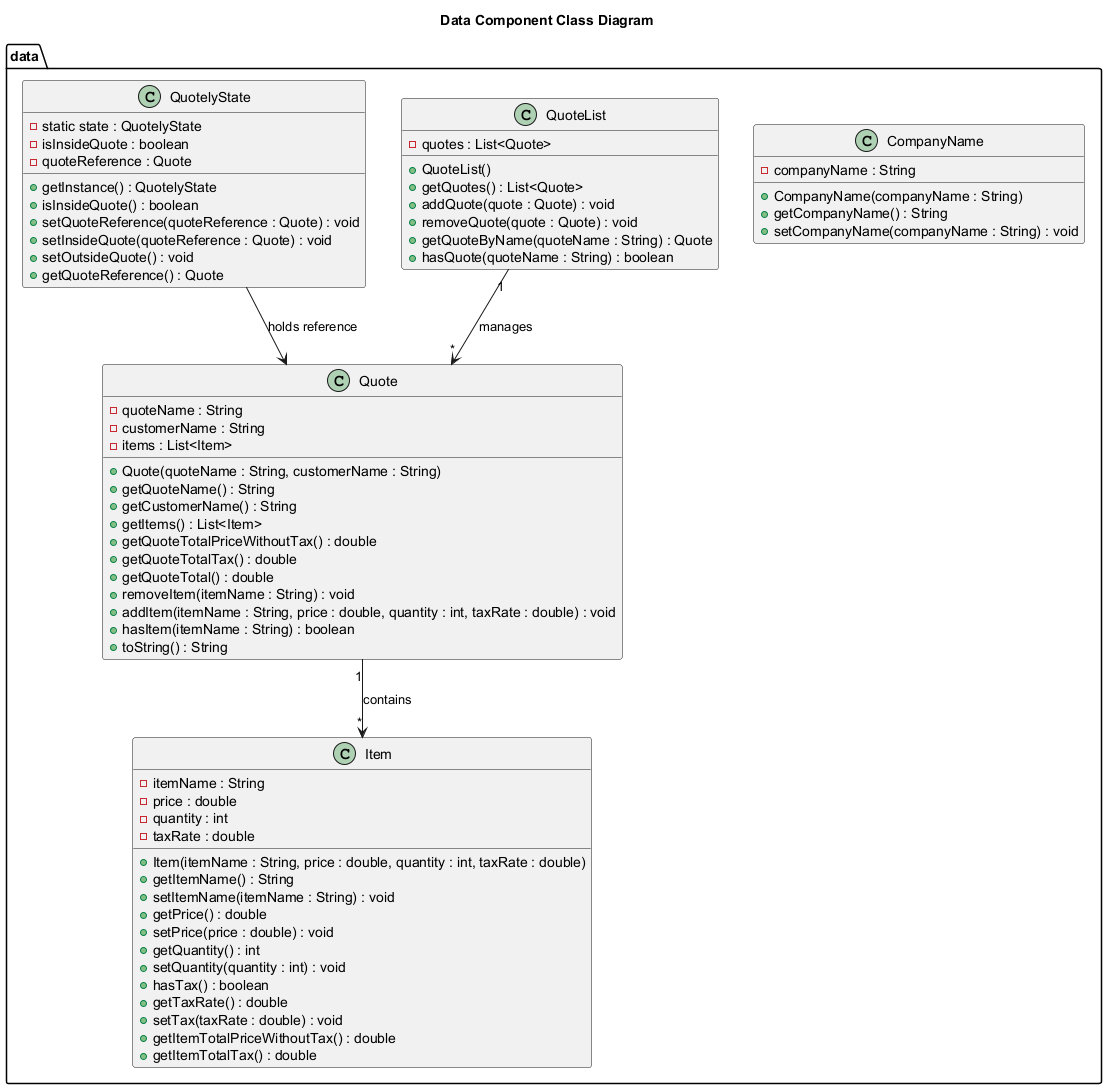
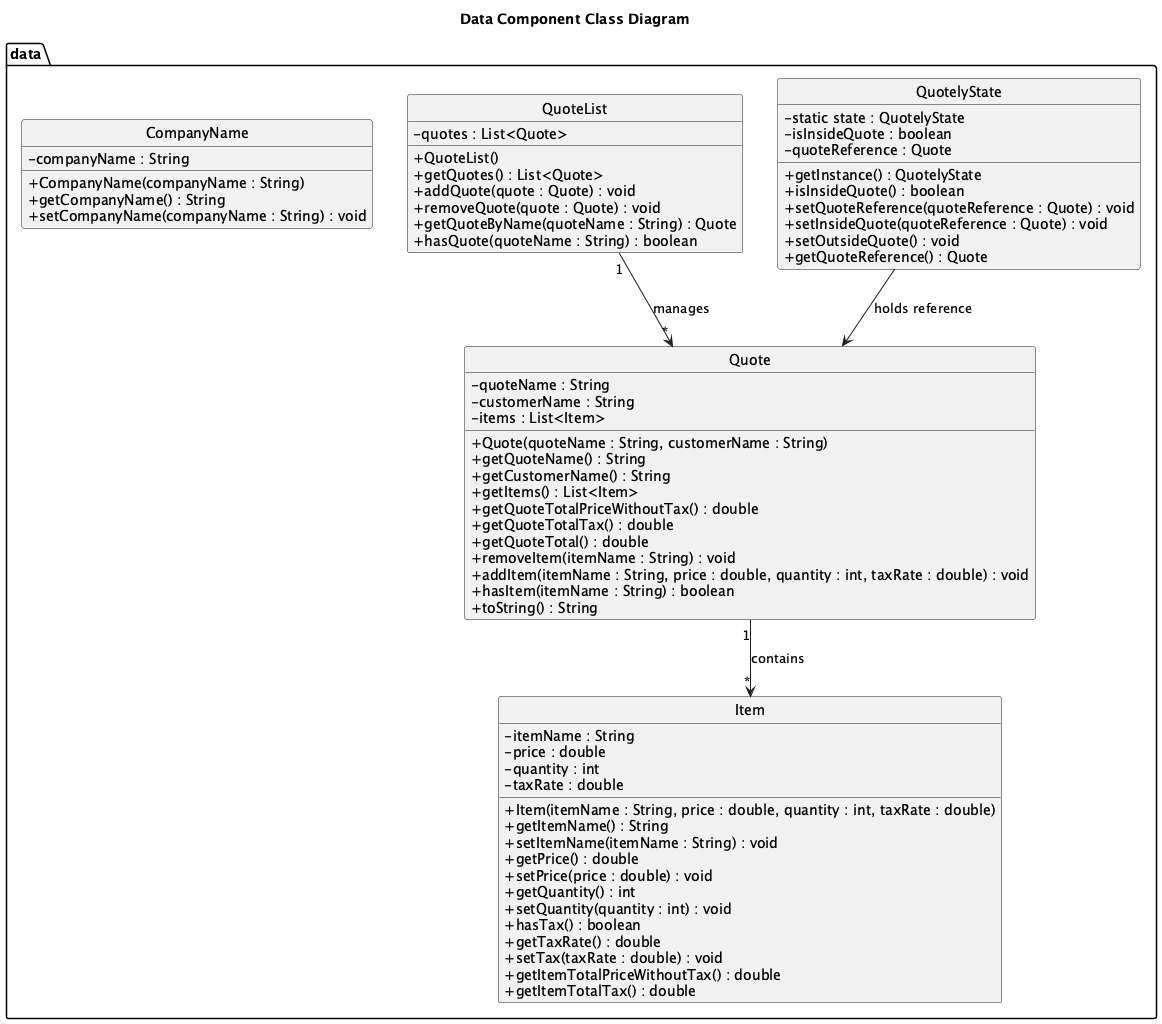
Refactor Developer Guide and UML diagrams for improved clarity and consistency

diff --git a/docs/DeveloperGuide.md b/docs/DeveloperGuide.md
@@ -1,37 +1,44 @@
 # Developer Guide
 
 - [Developer Guide](#developer-guide)
-    - [Acknowledgements](#acknowledgements)
-    - [Design](#design)
-        - [Architecture](#architecture)
-        - [Parser Component](#parser-component)
-        - [Command Component](#command-component)
-        - [Ui Component](#ui-component)
-        - [Data Component](#data-component)
-        - [File storage Component](#file-storage-component)
-        - [PDF export Component](#pdf-export-component)
-    - [Implementation](#implementation)
-        - [QuotelyState feature](#quotelystate-feature)
-            - [Design Considerations](#Design-Considerations)
-            - [Implementation of state](#Implementation-of-state)
-        - [Export feature](#export-feature)
-            - [Overview](#overview)
-            - [User-facing behaviour](#user-facing-behaviour)
-            - [Example (full workflow)](#example-full-workflow)
-            - [Developer notes (implementation)](#developer-notes-implementation)
-            - [Implementation considerations \& TODOs](#implementation-considerations--todos)
-        - [hasTax \& tax-handling feature](#hastax--tax-handling-feature)
-            - [User-facing behaviour](#user-facing-behaviour-1)
-            - [Error cases and expected behaviour](#error-cases-and-expected-behaviour)
-    - [Notes](#notes)
-    - [Product scope](#product-scope)
-        - [Target user profile](#target-user-profile)
-        - [Value proposition](#value-proposition)
-        - [User Stories](#user-stories)
-    - [Non-Functional Requirements](#non-functional-requirements)
-    - [Glossary](#glossary)
-    - [Instructions for manual testing](#instructions-for-manual-testing)
-    - [Documentation, logging, testing, configuration, dev-ops](#documentation-logging-testing-configuration-dev-ops)
+  - [Acknowledgements](#acknowledgements)
+  - [Design](#design)
+    - [Architecture](#architecture)
+    - [Parser Component](#parser-component)
+    - [Command Component](#command-component)
+    - [Ui Component](#ui-component)
+    - [Data Component](#data-component)
+    - [File storage Component](#file-storage-component)
+    - [Writer Component (PDF export)](#writer-component-pdf-export)
+  - [Implementation](#implementation)
+    - [QuotelyState feature](#quotelystate-feature)
+      - [Design Considerations](#design-considerations)
+      - [Implementation of state](#implementation-of-state)
+    - [Export feature](#export-feature)
+      - [Overview](#overview)
+      - [User-facing behaviour](#user-facing-behaviour)
+      - [Example (full workflow)](#example-full-workflow)
+      - [Developer notes (implementation)](#developer-notes-implementation)
+      - [Implementation considerations \& TODOs](#implementation-considerations--todos)
+    - [hasTax \& tax-handling feature](#hastax--tax-handling-feature)
+      - [User-facing behaviour](#user-facing-behaviour-1)
+      - [Error cases and expected behaviour](#error-cases-and-expected-behaviour)
+    - [Gson implementation in File Storage](#gson-implementation-in-file-storage)
+      - [Overview](#overview-1)
+      - [Trigger](#trigger)
+      - [User-facing behaviour](#user-facing-behaviour-2)
+      - [Example (full workflow of File Storage)](#example-full-workflow-of-file-storage)
+      - [Developers note (Implementation of File Storage)](#developers-note-implementation-of-file-storage)
+      - [#### Implementation considerations \& TODOs](#-implementation-considerations--todos)
+  - [Notes](#notes)
+  - [Product scope](#product-scope)
+    - [Target user profile](#target-user-profile)
+    - [Value proposition](#value-proposition)
+    - [User Stories](#user-stories)
+  - [Non-Functional Requirements](#non-functional-requirements)
+  - [Glossary](#glossary)
+  - [Instructions for manual testing](#instructions-for-manual-testing)
+  - [Documentation, logging, testing, configuration, dev-ops](#documentation-logging-testing-configuration-dev-ops)
 
 ## Acknowledgements
 
@@ -230,6 +237,14 @@ How the `Data` component works:
 
 ### File storage Component
 
+![Storage Diagram](./src/StorageDiagram.png)
+
+The `Storage` component,
+
+* handles the persistence of application data (the `QuoteList`) between sessions
+* loads the `QuoteList` from a local JSON file (data/quotely.json) when the application starts
+* saves the `QuoteList` back to the JSON file after each successful command
+* comprised of a Storage class (for raw file I/O) and a JsonSerializer (for object-to-JSON conversion)
 The Storage component is responsible for loading data from local disk at initialisation of Quotely and save changes to
 Data back to local disk after user inputs have been successfully executed.
 
@@ -282,26 +297,43 @@ Each quote object contains `quoteName`, `customerName`, and an `items` array; ea
 }
 ```
 
-### PDF export Component
+### Writer Component (PDF export)
 
-The PDF export component handles the creation and formatting of quotation PDFs based on data in a quote.
+The Writer component (PDF export) transforms an in-memory `Quote` and related metadata (for example, `CompanyName`) into a printable PDF file. It is intentionally small and focused: callers supply the quote and an optional filename and receive a completed PDF on disk (or a clear error).
 
-* It is implemented as a singleton
-* It acts as the final step in the quotation workflow, transforming in-memory data (Quote, Item, and CompanyName) into a
-  formatted and exportable file.
+Responsibilities
 
-The class diagram of the `PDF export` component is shown below:
+- Produce a readable invoice/quotation layout (header, customer details, itemised table, subtotals, tax lines, footer).
+- Accept a requested output filename (base name) and write a `.pdf` file to the target location.
+- Sanitize filenames and paths to avoid path traversal and filesystem errors.
+- Perform writes atomically where possible, and report failures to `Ui` while logging full details.
 
-!['pdfwriterclass diagram'](./src/pdfwriterclass.png)
+API and implementation notes
 
-How the `PDF export` component works:
+- Public API: a single writer class exposes a concise method such as `PDFWriter.writeQuoteToPDF(Quote quote, CompanyName company, String filename)` (the current implementation follows this pattern).
+- Implementation style: the project currently uses a singleton-style `PDFWriter` implemented with iText/lowagie. The design intentionally keeps formatting code separate from parsing/command logic.
 
-* When a command sis given by user, writeQuoteToPDF(quote, companyName, filename) is called.
-* It retrieves all Item objects within the given Quote and computing subtotal, tax, and grand total values.
-* A new PDF document is created using Document and PdfWriter from the iText library, configured with A4 page dimensions and margins.
-* Once all data is written, the document is closed and automatically saved as a .pdf file using the provided filename (e.g., Invoice.pdf).
+Filename rules (recommended)
 
-More details can be found in [Export feature](#export-feature).
+- Input: the CLI accepts an optional `f/FILE_NAME` token. The command forwards the supplied base name to the writer.
+- Normalisation steps the writer should perform:
+  1. Trim whitespace from the supplied name.
+  2. If the name ends with `.pdf` (any case), remove the extension so the writer can consistently append `.pdf`.
+  3. Reject or strip path traversal segments (`..`) and disallow path separators (`/` or `\`) unless the writer explicitly supports writing to paths. If we accept a path, validate it carefully and document the behaviour. (future work)
+  4. Replace or remove characters that are illegal on common filesystems. A practical whitelist is: letters, digits, space, hyphen (-), underscore (_), and dot (.). Example safe regex: `^[A-Za-z0-9 _\-\.]+$` (apply trimming and fallback for empty names). (future work)
+- Final name: append `.pdf` and write to the destination. By default the current working directory is used; existing files are overwritten.
+
+Developer TODOs (prioritised)
+
+1. Implement and test filename sanitisation using the whitelist strategy above.
+2. Decide on font strategy (bundle TTFs and register at runtime, or document required system fonts) and implement a font registration helper if needed.
+3. Add an integration test that verifies `ExportQuoteCommand` produces a file in a temporary directory.
+
+This writer component is intentionally small and replaceable: contributors can swap the underlying PDF production mechanism while preserving CLI behaviour (`ExportQuoteCommand`) and the `Ui` contract.
+
+Here is the class diagram of `writer`:
+
+![pdfwriterclass.png](./src/pdfwriterclass.png)
 
 ## Implementation
 
